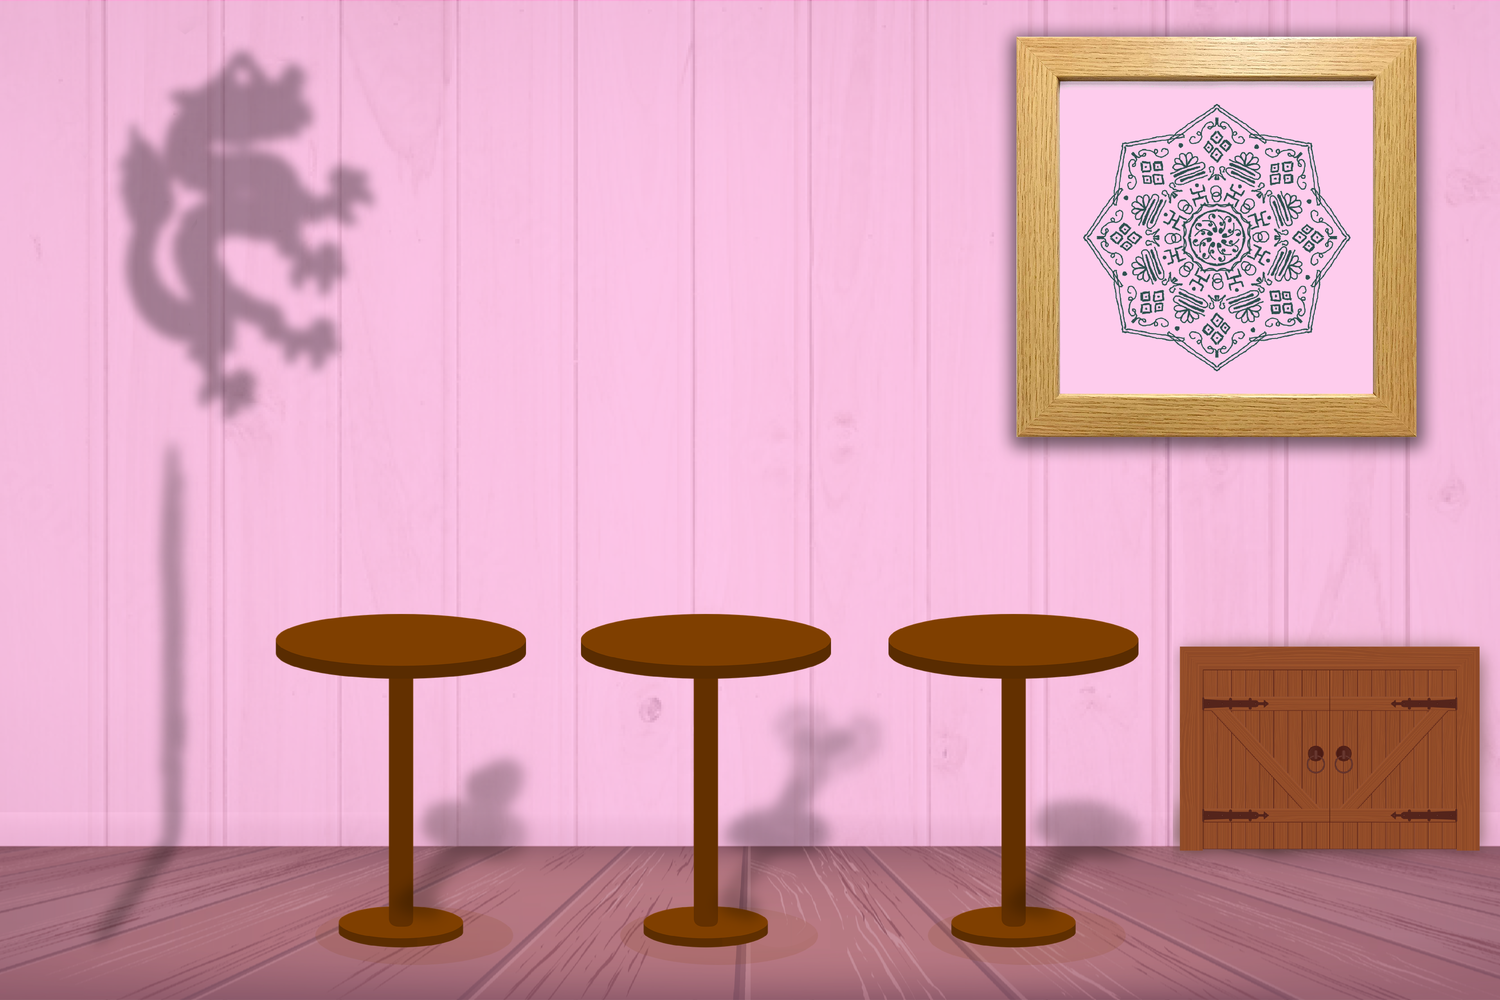
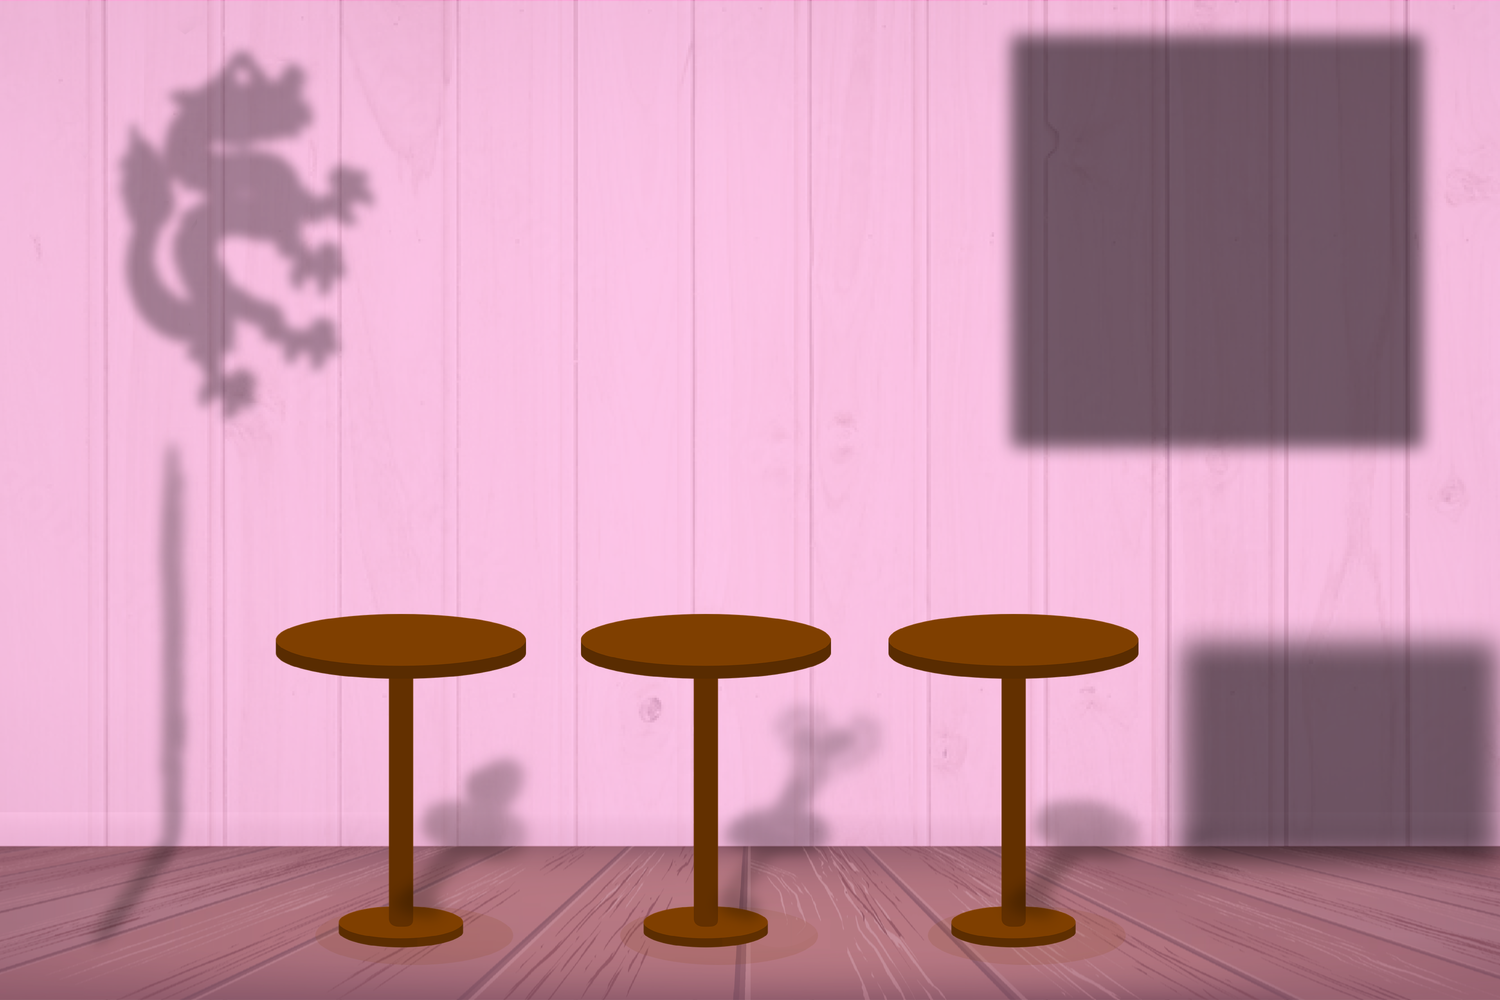
Fix Japan

Changed region(s): [[0.6747, 0.031, 0.9507, 0.434], [0.7667, 0.62, 1.0, 0.868]]

diff --git a/src/containers/Rooms/Japan.js b/src/containers/Rooms/Japan.js
@@ -1,10 +1,7 @@
-import {
-  Grid,
-  makeStyles,
-} from '@material-ui/core';
+import { Grid, makeStyles } from '@material-ui/core';
 import React from 'react';
 import { Image, Layer, Stage, Star, Text } from 'react-konva';
-import { useHistory } from "react-router-dom";
+import { useHistory } from 'react-router-dom';
 import useImage from 'use-image';
 
 import MessageSeries from '../../components/Dialog/MessageSeries';
@@ -18,62 +15,75 @@ const useStyles = makeStyles(() => ({
   },
 }));
 
-
 const Index = () => {
-  let history = useHistory()
+  let history = useHistory();
   const classes = useStyles();
   const [dialogOpen, setDialogOpen] = React.useState(false);
   const BACKGROUND_IMAGE = '/japan/japan room - empty.png';
   const [image] = useImage(process.env.PUBLIC_URL + BACKGROUND_IMAGE);
   const scaleY = window.innerHeight / image?.height;
-  const [objects, setObjects] = React.useState(
-    [
-      {
-        urlImage: process.env.PUBLIC_URL + '/japan/sushi.png',
-        id: 0,
-        x: 995,
-        y: 620,
-        isHover: false,
-        onClick: () => goForward('/folan1'),
-      },
-      {
-        urlImage: process.env.PUBLIC_URL + '/japan/chance cat.png',
-        id: 1,
-        x: 390,
-        y: 540,
-        isHover: false,
-        onClick: () => goForward('/folan1'),
-      },
-      {
-        urlImage: process.env.PUBLIC_URL + '/japan/cherry blossom vase.png',
-        id: 3,
-        x: 710,
-        y: 450,
-        isHover: false,
-        onClick: () => goForward('/folan1'),
-      }
-      , {
-        urlImage: process.env.PUBLIC_URL + '/japan/dragon.png',
-        id: 4,
-        x: 180,
-        y: 200,
-        isHover: false,
-        onClick: () => goForward('/folan1'),
-      }
-      , {
-        urlImage: process.env.PUBLIC_URL + '/japan/katana.png',
-        id: 5,
-        x: 120,
-        y: 675,
-        isHover: false,
-        onClick: () => goForward('/folan1'),
-      }
-    ]
-  );
+  const [objects, setObjects] = React.useState([
+    {
+      urlImage: process.env.PUBLIC_URL + '/japan/sushi.png',
+      id: 0,
+      x: 1005,
+      y: 638,
+      isHover: false,
+      onClick: () => goForward('/folan1'),
+    },
+    {
+      urlImage: process.env.PUBLIC_URL + '/japan/chance cat.png',
+      id: 1,
+      x: 380,
+      y: 550,
+      isHover: false,
+      onClick: () => goForward('/folan1'),
+    },
+    {
+      urlImage: process.env.PUBLIC_URL + '/japan/cherry blossom vase.png',
+      id: 3,
+      x: 710,
+      y: 470,
+      isHover: false,
+      onClick: () => goForward('/folan1'),
+    },
+    {
+      urlImage: process.env.PUBLIC_URL + '/japan/dragon.png',
+      id: 4,
+      x: 240,
+      y: 230,
+      isHover: false,
+      onClick: () => goForward('/folan1'),
+    },
+    {
+      urlImage: process.env.PUBLIC_URL + '/japan/katana.png',
+      id: 5,
+      x: 130,
+      y: 698,
+      isHover: false,
+      onClick: () => goForward('/folan1'),
+    },
+    {
+      urlImage: process.env.PUBLIC_URL + '/japan/japan frame.png',
+      id: 6,
+      x: 1220,
+      y: 235,
+      isHover: false,
+      onClick: () => goForward('/folan1'),
+    },
+    {
+      urlImage: process.env.PUBLIC_URL + '/japan/door.png',
+      id: 7,
+      x: 1330,
+      y: 750,
+      isHover: false,
+      onClick: () => goForward('/folan1'),
+    },
+  ]);
 
   const goForward = (dst) => {
     history.push(dst);
-  }
+  };
 
   const handleMouseEnter = (e) => {
     const id = e.target.id();
@@ -100,7 +110,9 @@ const Index = () => {
 
   return (
     <Layout>
-      <Stage width={Math.min(image?.width * scaleY, window.innerWidth)} height={window.innerHeight}>
+      <Stage
+        width={Math.min(image?.width * scaleY, window.innerWidth)}
+        height={window.innerHeight}>
         <Layer
           draggable
           dragBoundFunc={(pos) => {
@@ -108,30 +120,32 @@ const Index = () => {
             if (window.innerWidth < image?.width * scaleY) {
               if (pos.x > 0) pos.x = 0;
               if (pos.x < window.innerWidth - image?.width * scaleY)
-                pos.x = window.innerWidth - image?.width * scaleY
+                pos.x = window.innerWidth - image?.width * scaleY;
             } else {
               pos.x = 0;
             }
             return pos;
-          }}
-        >
+          }}>
           <URLImage
             scaleX={scaleY}
             scaleY={scaleY}
-            src={process.env.PUBLIC_URL + BACKGROUND_IMAGE} />
+            src={process.env.PUBLIC_URL + BACKGROUND_IMAGE}
+          />
           {objects.map((object) => (
             <ItemImage
               key={object.id}
               object={object}
               scale={scaleY}
               handleMouseEnter={handleMouseEnter}
-              handleMouseExit={handleMouseExit} />
+              handleMouseExit={handleMouseExit}
+            />
           ))}
         </Layer>
       </Stage>
       <MessageSeries
         handleClose={() => setDialogOpen(!dialogOpen)}
-        open={dialogOpen} />
+        open={dialogOpen}
+      />
     </Layout>
   );
 };
